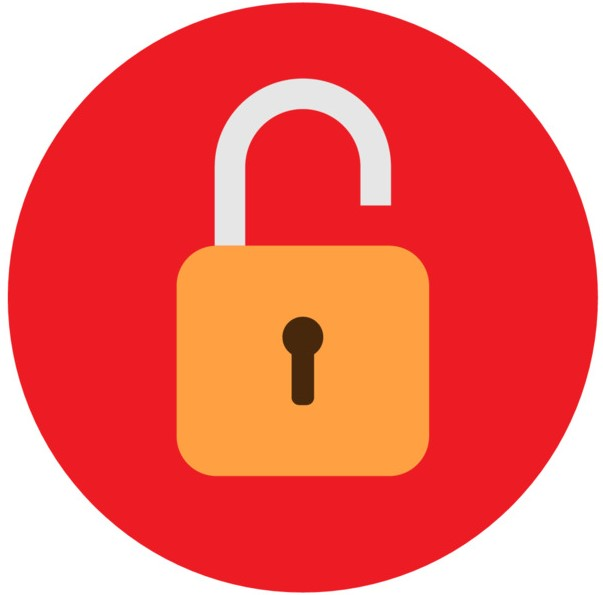
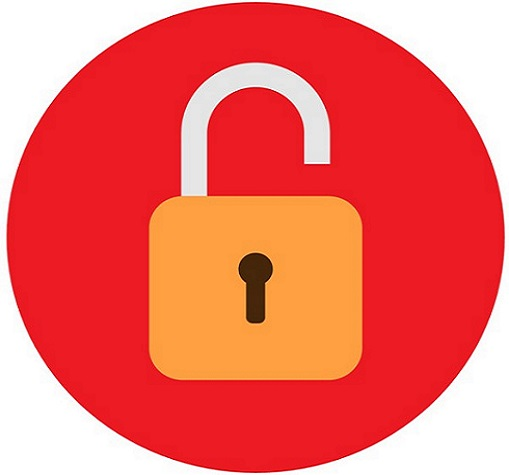
All page header, loginpage text, design change

diff --git a/src/screens/HomeScreen.js b/src/screens/HomeScreen.js
@@ -1,8 +1,16 @@
 import React, {useState, useEffect} from 'react';
-import {View, SafeAreaView, Text, Image, ScrollView} from 'react-native';
+import {
+  View,
+  SafeAreaView,
+  Text,
+  TouchableOpacity,
+  Image,
+  ScrollView,
+} from 'react-native';
 import Ionicons from 'react-native-vector-icons/Ionicons';
 import moment from 'moment';
 import {useToast} from 'react-native-toast-notifications';
+import PackagesScreen from '../screens/PackagesScreen';
 
 import {useSelector, useDispatch} from 'react-redux';
 import {fetchHomeData, saveMemberHomeDetails} from '../redux/actions/HomeState';
@@ -92,7 +100,7 @@ export default function HomeScreen({navigation}) {
 
   return (
     <SafeAreaView style={{flex: 1, backgroundColor: '#dfe1eb'}}>
-      <ScrollView style={{padding: 10}}>
+      <ScrollView style={{padding: 10, marginTop: -15}}>
         <AppStatusBar colorPalete="WHITE" bg={COLORS.background} />
         {loader ? <Loader /> : null}
         <Ionicons
@@ -106,6 +114,7 @@ export default function HomeScreen({navigation}) {
               fontFamily: 'Lato-Regular',
               color: '#002060',
             }}>
+            {' '}
             Home
           </Text>
         </Ionicons>
@@ -134,7 +143,7 @@ export default function HomeScreen({navigation}) {
                 source={
                   homeDetails.PackageState === 1
                     ? require('../../assets/images/new_lock.png')
-                    : require('../../assets/images/unlock.jpg')
+                    : require('../../assets/images/new_unlock.jpg')
                 }
               />
               <Text style={{textAlign: 'center', fontWeight: 'bold'}}>
@@ -152,13 +161,14 @@ export default function HomeScreen({navigation}) {
               }}>
               <Card.Cover
                 style={{alignSelf: 'center', width: 160, height: 150}}
+                onPress={() => navigation.navigate('PackagesScreen')}
                 source={{
                   uri: `${CONFIG.IMAGE_URL}/${homeDetails.photo1}`,
                 }}
               />
-              <Text style={{textAlign: 'center', fontWeight: 'bold'}}>
+              {/* <Text style={{textAlign: 'center', fontWeight: 'bold'}}>
                 Last Updated
-              </Text>
+              </Text> */}
             </Card>
           </View>
         </View>

diff --git a/src/screens/SignupScreen.js b/src/screens/SignupScreen.js
@@ -120,6 +120,7 @@ const SignupScreen = ({navigation}) => {
                 opacity: 0.5,
                 marginBottom: SIZES.base,
                 color: '#0d8e8a',
+                fontWeight: 'bold',
               }}>
               Name
             </Text>
@@ -144,6 +145,7 @@ const SignupScreen = ({navigation}) => {
                 opacity: 0.5,
                 marginBottom: SIZES.base,
                 color: '#0d8e8a',
+                fontWeight: 'bold',
               }}>
               Email
             </Text>
@@ -167,6 +169,7 @@ const SignupScreen = ({navigation}) => {
                 opacity: 0.5,
                 marginBottom: SIZES.base,
                 color: '#0d8e8a',
+                fontWeight: 'bold',
               }}>
               Mobile
             </Text>
@@ -189,6 +192,7 @@ const SignupScreen = ({navigation}) => {
                 opacity: 0.5,
                 marginBottom: SIZES.base,
                 color: '#0d8e8a',
+                fontWeight: 'bold',
               }}>
               Password
             </Text>
@@ -218,6 +222,7 @@ const SignupScreen = ({navigation}) => {
                 opacity: 0.5,
                 marginBottom: SIZES.base,
                 color: '#0d8e8a',
+                fontWeight: 'bold',
               }}>
               Controller ID
             </Text>

diff --git a/src/navigation/AppStack.js b/src/navigation/AppStack.js
@@ -13,6 +13,7 @@ import CameraScreen from '../screens/CameraScreen';
 import InformationScreen from '../screens/InformationScreen';
 import AboutScreen from '../screens/AboutScreen';
 import ProfileScreen from '../screens/ProfileScreen';
+import PackagesScreen from '../screens/PackagesScreen';
 import CustomDrawer from '../components/CustomDrawer';
 import {logoutSuccess} from '../redux/actions/AuthState';
 import {createStackNavigator} from '@react-navigation/stack';
@@ -74,7 +75,7 @@ const AppStack = () => {
         },
       }}>
       <Drawer.Screen
-        name="HomeTab"
+        name="Home"
         component={BottomTabNavigator}
         options={{
           headerShown: false,
@@ -270,12 +271,12 @@ const AppStack = () => {
         }}
       />
       <Drawer.Screen
-        name="Information"
-        component={InformationScreen}
+        name="Packages"
+        component={PackagesScreen}
         options={{
           headerShown: true,
           drawerIcon: ({color}) => (
-            <Feather name="alert-circle" size={22} color={color} />
+            <Feather name="package" size={22} color={color} />
           ),
           headerTitleAlign: 'center',
           headerTitle: () => (

diff --git a/src/screens/LoginScreen.js b/src/screens/LoginScreen.js
@@ -181,6 +181,7 @@ const LoginScreen = ({navigation}) => {
                             opacity: 0.5,
                             marginBottom: SIZES.base,
                             color: '#0d8e8a',
+                            fontWeight: 'bold',
                           }}>
                           Login ID
                         </Text>
@@ -206,6 +207,7 @@ const LoginScreen = ({navigation}) => {
                             opacity: 0.5,
                             marginBottom: SIZES.base,
                             color: '#0d8e8a',
+                            fontWeight: 'bold',
                           }}>
                           Password
                         </Text>

diff --git a/src/screens/PackagesScreen.js b/src/screens/PackagesScreen.js
@@ -76,7 +76,13 @@ const PackagesScreen = ({navigation}) => {
   };
 
   return (
-    <SafeAreaView style={{flex: 1, padding: 10, backgroundColor: '#dfe1eb'}}>
+    <SafeAreaView
+      style={{
+        flex: 1,
+        padding: 10,
+        marginTop: -15,
+        backgroundColor: '#dfe1eb',
+      }}>
       <AppStatusBar colorPalete="WHITE" bg={COLORS.background} />
       <Ionicons
         name="logo-dropbox"

diff --git a/src/screens/SettingsScreen.js b/src/screens/SettingsScreen.js
@@ -7,7 +7,7 @@ import {COLORS} from '../constants';
 const SettingsScreen = ({navigation}) => {
   return (
     <SafeAreaView style={{flex: 1, backgroundColor: '#dfe1eb'}}>
-      <ScrollView style={{padding: 10}}>
+      <ScrollView style={{padding: 10, marginTop: -15}}>
         <AppStatusBar colorPalete="WHITE" bg={COLORS.background} />
         <Ionicons
           name="settings-outline"

diff --git a/src/screens/ProfileScreen.js b/src/screens/ProfileScreen.js
@@ -6,7 +6,7 @@ import {COLORS} from '../constants';
 
 const ProfileScreen = ({navigation}) => {
   return (
-    <SafeAreaView style={{flex: 1, backgroundColor: '#dfe1eb'}}>
+    <SafeAreaView style={{flex: 1, backgroundColor: '#dfe1eb', marginTop: -15}}>
       <ScrollView style={{padding: 10}}>
         <AppStatusBar colorPalete="WHITE" bg={COLORS.background} />
         <Ionicons

diff --git a/src/screens/AboutScreen.js b/src/screens/AboutScreen.js
@@ -6,7 +6,7 @@ import {COLORS} from '../constants';
 
 const AboutScreen = ({navigation}) => {
   return (
-    <SafeAreaView style={{flex: 1, backgroundColor: '#dfe1eb'}}>
+    <SafeAreaView style={{flex: 1, backgroundColor: '#dfe1eb', marginTop: -15}}>
       <ScrollView style={{padding: 10}}>
         <AppStatusBar colorPalete="WHITE" bg={COLORS.background} />
         <Ionicons

diff --git a/src/screens/NotificationsScreen.js b/src/screens/NotificationsScreen.js
@@ -46,7 +46,7 @@ const NotificationsScreen = ({navigation, route}) => {
   };
 
   return (
-    <SafeAreaView style={{flex: 1, backgroundColor: '#dfe1eb'}}>
+    <SafeAreaView style={{flex: 1, backgroundColor: '#dfe1eb', marginTop: -15}}>
       <ScrollView style={{padding: 10}}>
         <AppStatusBar colorPalete="WHITE" bg={COLORS.background} />
         <Ionicons

diff --git a/src/navigation/BottomTabNavigator.js b/src/navigation/BottomTabNavigator.js
@@ -175,7 +175,7 @@ const PackageStack = ({navigation}) => {
 const BottomTabNavigator = () => {
   useEffect(() => {
     const backAction = () => {
-      Alert.alert('Hold on!', 'Are you sure you want to exit?', [
+      Alert.alert('DOORBOX App!', 'Are you sure you want to exit?', [
         {
           text: 'Cancel',
           onPress: () => null,
